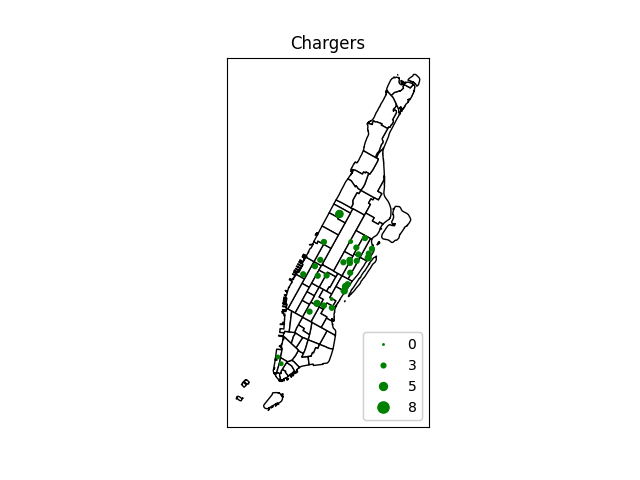
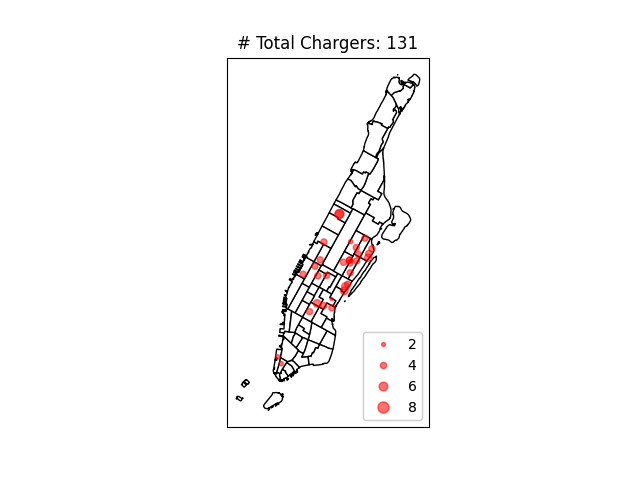
plot chargers

diff --git a/map_explore.py b/map_explore.py
@@ -346,28 +346,29 @@ def visualize_chargers():
     df_chargers_long_level2 = df_chargers_long_cp[df_chargers_long_cp["ChargerType"] == "Level2"]
     df_chargers_long_dcFast = df_chargers_long_cp[df_chargers_long_cp["ChargerType"] == "DCFast"]
     
-    sc = df_chargers_long_level2.plot(ax = ax, marker = "o", color = "green", markersize = df_chargers_long_level2["ChargerNum"] * 3, alpha = 1)
+    sc = df_chargers_long_level2.plot(ax = ax, marker = "o", color = "red", markersize = (df_chargers_long_level2["ChargerNum"]) * 5, alpha = 0.5)
 #    df_chargers_long_dcFast.plot(ax = ax, marker = "o", color = "blue", markersize = df_chargers_long_dcFast["ChargerNum"], alpha = 0.5)
-    _, bins = pd.cut(df_chargers_long_level2["ChargerNum"], bins=3, precision=0, retbins=True)
+    _, bins = pd.cut(df_chargers_long_level2["ChargerNum"], bins=4, precision=0, retbins=True)
     ax.add_artist(
         ax.legend(
             handles=[
                 mlines.Line2D(
                     [],
                     [],
-                    color="green",
+                    color="red",
+                    alpha=0.5,
                     lw=0,
                     marker="o",
                     markersize=b,
                     label=str(int(b)),
                 )
-                for i, b in enumerate(bins)
+                for i, b in enumerate(bins[1:])
             ],
             loc=4,
         )
     )
     ax.set_aspect("equal")
-    plt.title(f"Chargers")
+    plt.title(f"# Total Chargers: {int(df_chargers_long_level2['ChargerNum'].sum())}")
     plt.xticks([])
     plt.yticks([])
     plt.savefig(f"MapExplore/{SCOPE}/chargers.png")
